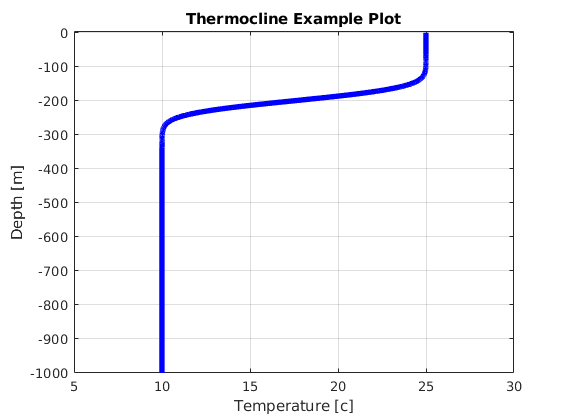
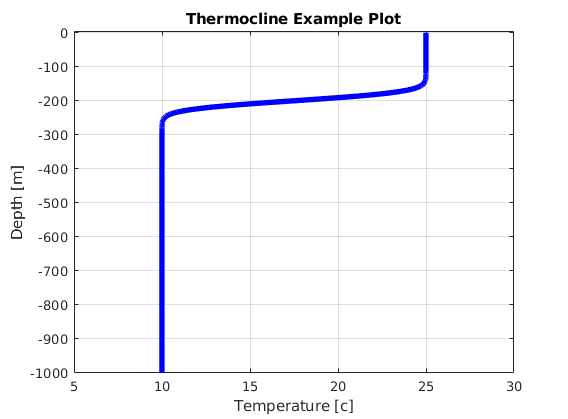
changed width to estimate using FWHM for standard deviation

Changed region(s): [[0.2694, 0.1551, 0.7782, 0.3413]]

diff --git a/thermocline.m b/thermocline.m
@@ -23,7 +23,7 @@ function [ temp, depth ] = thermocline( TMIN, TMAX, DEPTH, CENTER_OF_GRADIENT, T
 %           transition width of 100 meters, a maximum depth of 1000
 %           meters, and using 3000 points, the command would be:
 %
-%           [temp, depth] = thermocline(10,25,1000,200,0.001,3000);
+%           [temp, depth] = thermocline(10,25,1000,200,100,3000);
 %
 % BY: Jared Brzenski
 % San Diego State University
@@ -33,14 +33,16 @@ if (nargin == 5 )
     NPOINTS = 1000;
 elseif ( nargin == 4 )
     NPOINTS = 1000;
-    THICKNESS = 0.01;
+    THICKNESS = DEPTH/10; % 1/10th the depth
 end
 
 % Settign up the variables for the erf
 depth = linspace(0,1,NPOINTS);
 mu =  (DEPTH-CENTER_OF_GRADIENT)/DEPTH ;
 sigma2 = THICKNESS;
-denom = sqrt(2*sigma2);
+sigma2 = THICKNESS / DEPTH;    % Scale the thickness
+sigma2 = sigma2 / 2.3548 / 2 ; % FWHM estimate of SD
+denom = sigma2 * sqrt(2);      % sigma * sqrt(2)
 
 % temperature values calculated here
 temp = TMIN + ((TMAX-TMIN)/2)*(1 + erf( (depth - mu)/denom));
